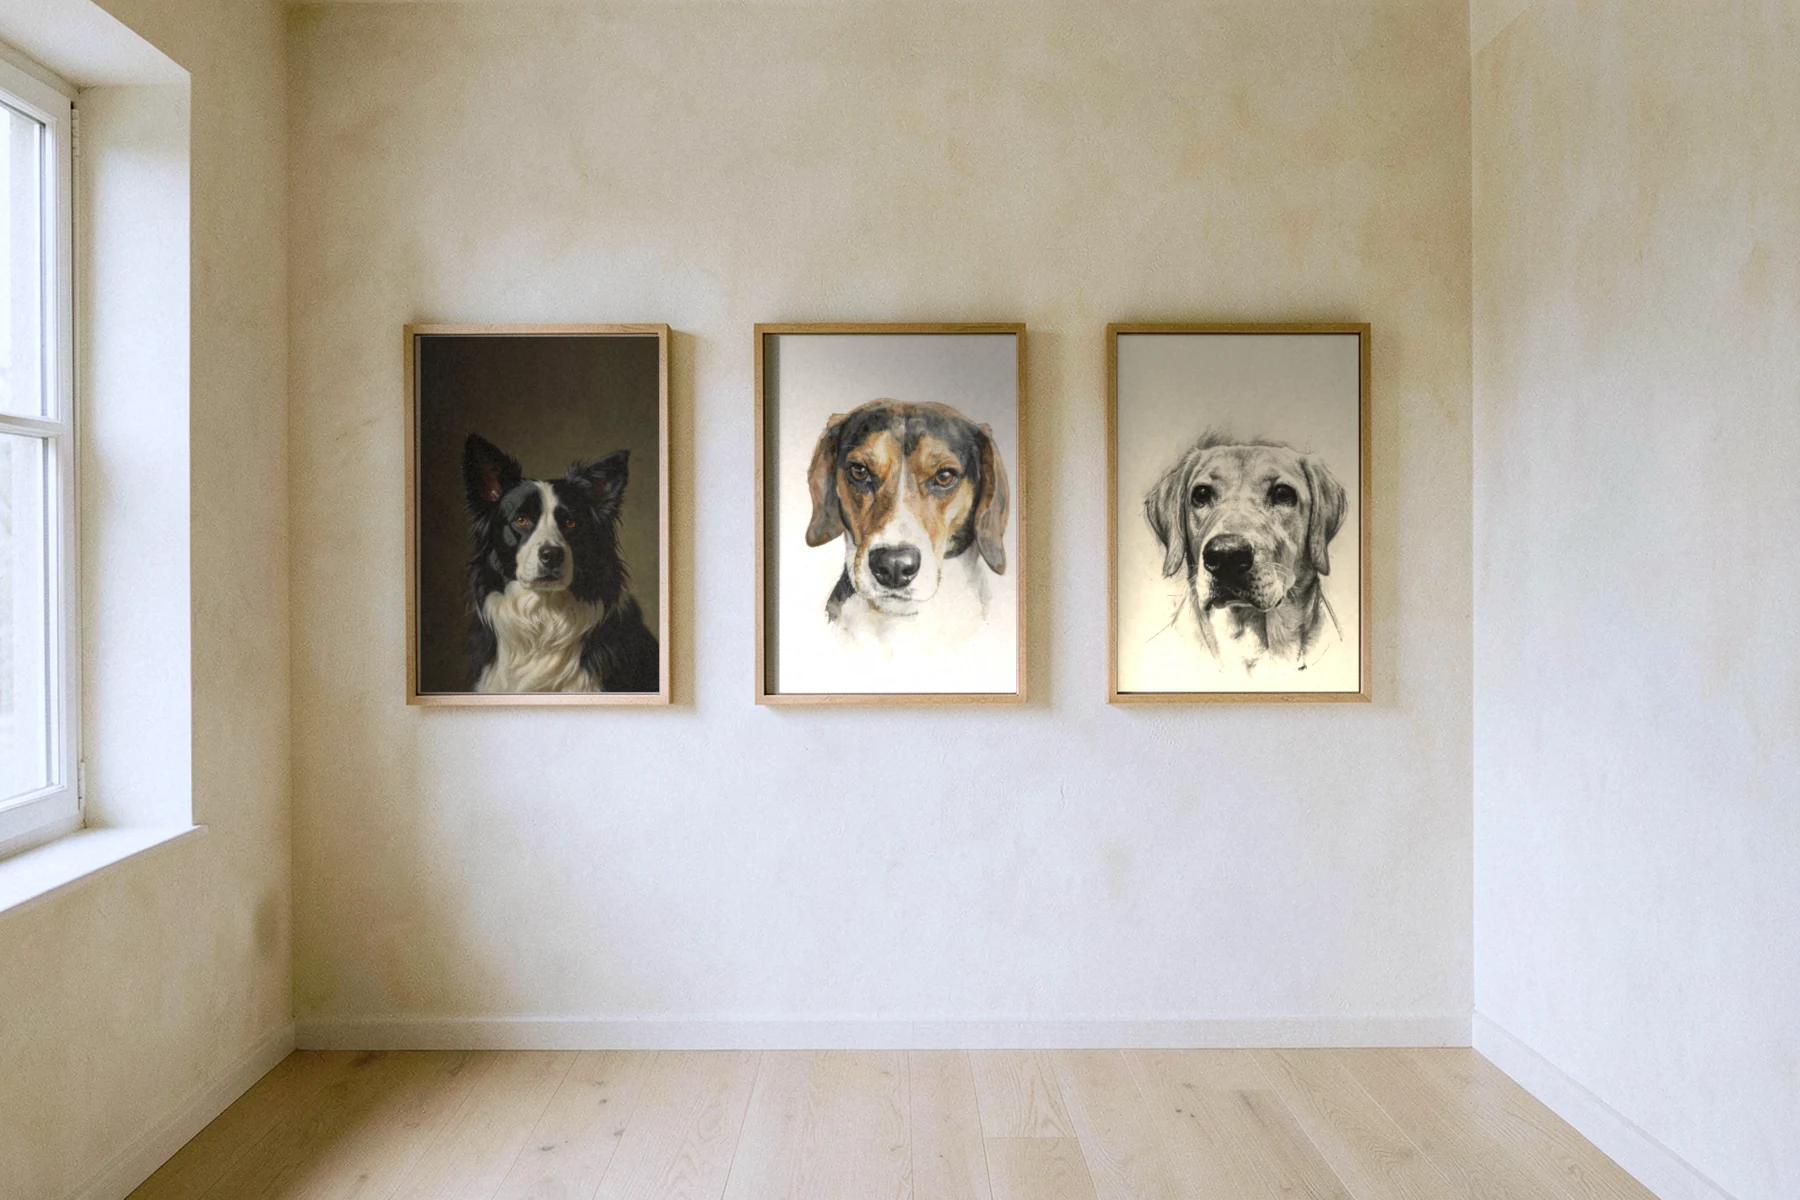
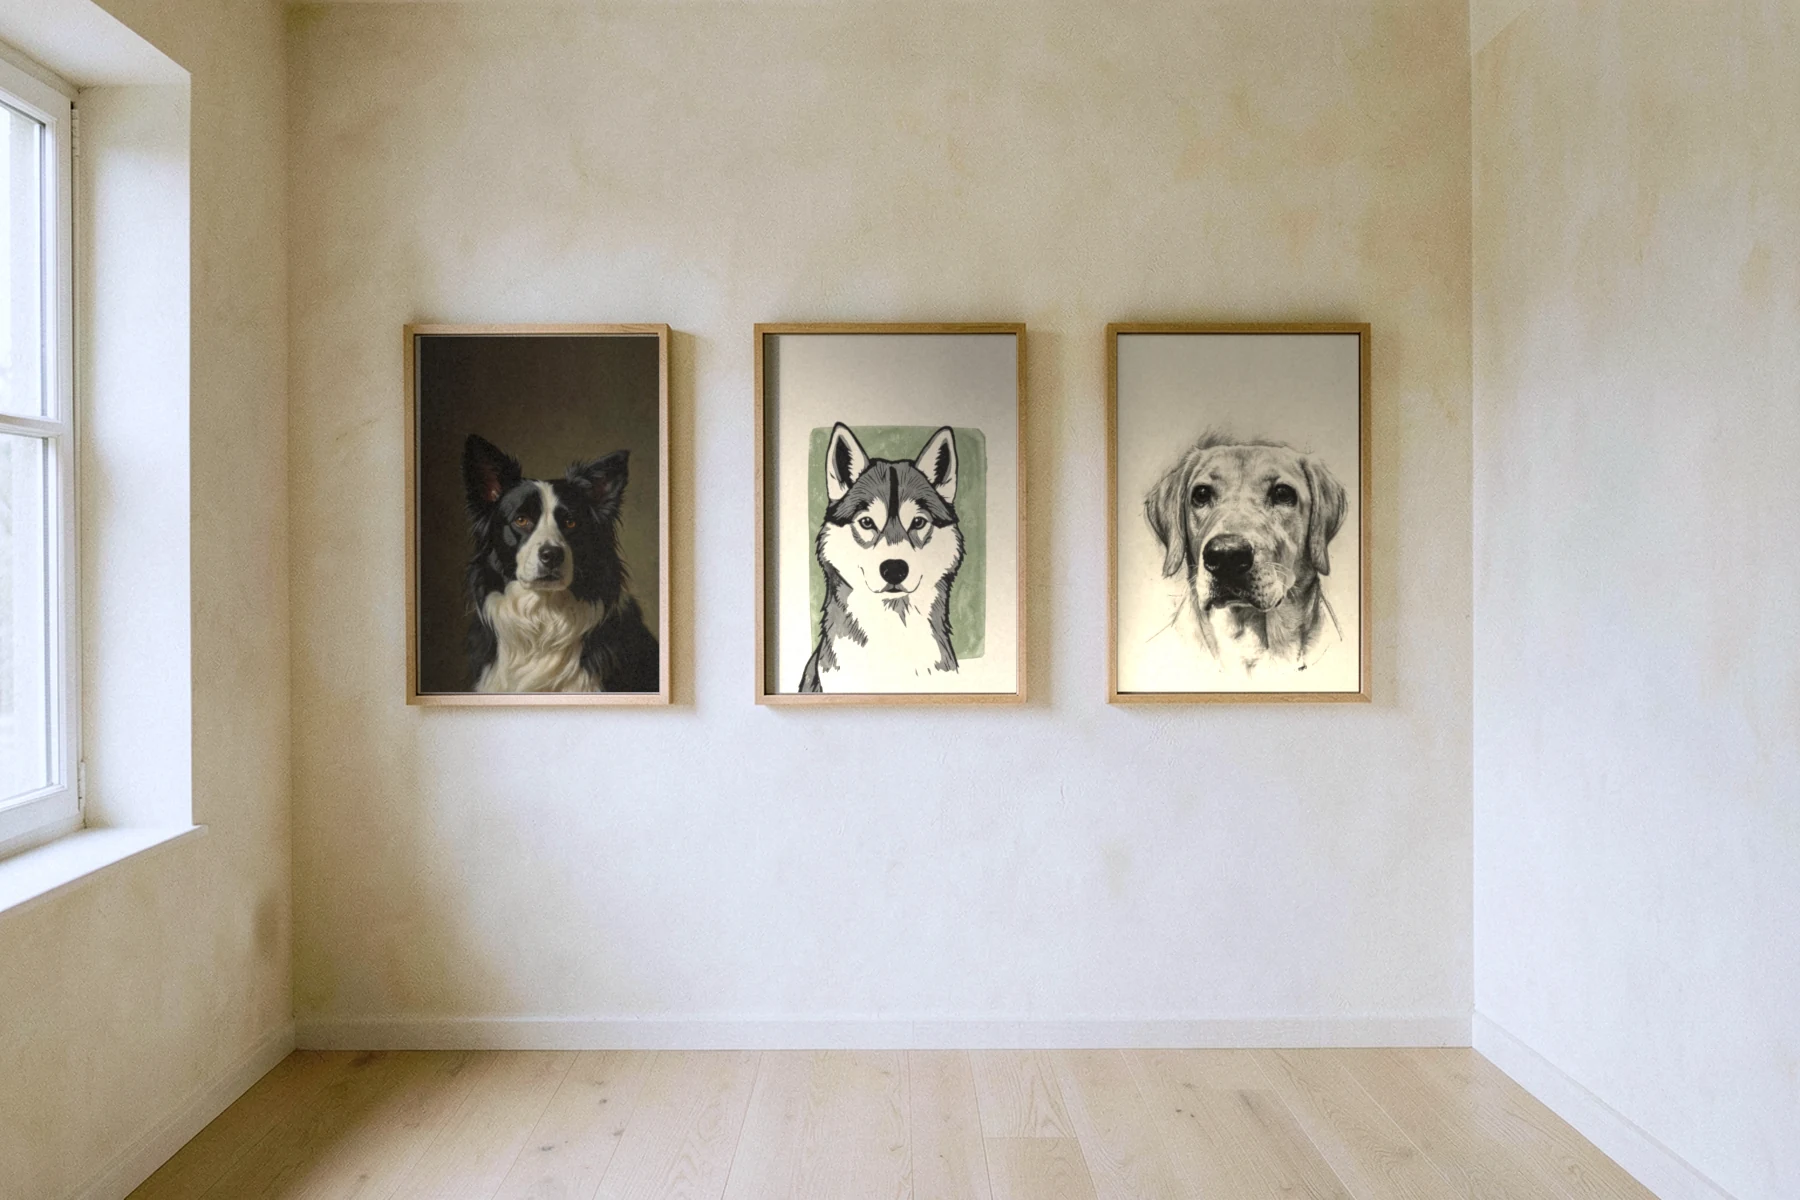
New craft-media samples: Modern Oil, Linocut, Pastel, Ink Wash; gallery wall rehung with Old Master, Linocut and Charcoal
Claude-Session: https://claude.ai/code/session_01Q1G9K9iUNWePoTgYQBX8an

Changed region(s): [[0.4356, 0.3083, 0.56, 0.5858]]

diff --git a/web/public/samples/CREDITS.md b/web/public/samples/CREDITS.md
@@ -5,28 +5,32 @@ customer orders and not customer reviews. Each one is an AI render made from a r
 (listed below), then reviewed by a person at 100% before it was published (likeness, anatomy, no garbled
 text or jewellery, no watermarks).
 
-## How they were made (current set, Oct 18: house-style redesign)
+## How they were made (current set, Nov 10: dog-centred collection)
+
+The collection is ten craft media and nothing else: the dog is the subject, with no costumes, props, scenes or
+novelty. Six pieces are kept from the Oct 18 house-style set (Old Master, Watercolor, Charcoal, Fine Line,
+Botanical, Mid-Century). Four are new (Modern Oil, Linocut, Pastel, Ink Wash). The Royal, Admiral, Space Cadet,
+Pop Art, Storybook and Holiday Cozy samples were deleted.
 
 - **Model:** FLUX.2 [klein] 4B (`black-forest-labs/FLUX.2-klein-4B`), run locally on CPU with Hugging Face
-  `diffusers` (`Flux2KleinPipeline`, bf16). Reference-image editing: the real photo is passed as the
+  `diffusers` (`Flux2KleinPipeline`). Reference-image editing: the real photo is passed as the
   reference image, and the style prompt asks for a portrait of *this exact dog*. 4 steps, guidance 1.0,
-  rendered natively at 1152×1440 (reference photo at 640×800).
+  reference photo at 640×800. The Oct 18 pieces and modern-oil.webp were rendered natively at 1152×1440; the
+  other Nov 10 pieces were rendered at 960×1200 (weights stored in bf16, computed in float32).
   - License: **Apache-2.0** (https://huggingface.co/black-forest-labs/FLUX.2-klein-4B). Commercial use of
     the model and of its outputs is permitted. The bundled VAE is under the same license.
 - **Text encoder:** Qwen3-4B (`Qwen/Qwen3-4B`, as bundled in the FLUX.2-klein-4B repository), **Apache-2.0**.
-- **Prompts:** one shared house style (museum surfaces, natural canine anatomy, one soft light, one restrained
-  palette, no text). The exact prompt used for each style is in `docs/art-direction.md`.
+- **Prompts:** one shared house style (the dog as the only subject, true medium surfaces, natural canine
+  anatomy, one soft light, one restrained palette, no text). The exact prompt used for each style is in
+  `docs/art-direction.md`.
 - **Retouching:**
   - mid-century.webp: the open mouth was re-rendered closed with the same model's inpainting pipeline
     (`Flux2KleinInpaintPipeline`, masked to the muzzle only).
-  - pop-art.webp: a stray dark shape below the jaw (a malformed tongue) was painted out with the plain
-    background ink.
   - charcoal.webp: the reference photo was first scaled down and seated on its own extended backdrop, to leave
     headroom.
 - **Finishing:** up to 1.2% edge trim (removes faint painted canvas edges), centre crop to 4:5, Lanczos resize to
   1200×1500, light unsharp mask. Then a very light surface pass: linen weave for oils, paper tooth for paper media.
-  Tiny isolated specks are removed, and near-white trim on The Royal is warmed to ivory. WebP quality 80–86
-  (Pillow), each file under 400 KB.
+  Tiny isolated specks are removed. WebP quality 80–86 (Pillow), each file under 400 KB.
 
 We never present these as hand-painted or signed. "Made by our AI artist, finished and checked by our team."
 
@@ -38,35 +42,33 @@ anyway. None are Unsplash+ photos. Local copies (4:5 crops) live in `web/scripts
 
 | Sample file(s) | Style | Dog | Source photo | Photographer | Unsplash page |
 |---|---|---|---|---|---|
-| royal.webp | The Royal | Cavalier King Charles Spaniel | cavalier-2.jpg | Tracy Anderson | https://unsplash.com/photos/OktYfwY5ZQI |
-| pair-1-before.webp (photo), pair-1-after.webp | The Royal | Golden Retriever | golden-retriever.jpg | Faber Leonardo | https://unsplash.com/photos/ktujYJX35-E |
-| admiral.webp | The Admiral | Labrador Retriever | labrador-2.jpg | Not identified yet (free Unsplash CDN image) | https://images.unsplash.com/photo-1761797732084-eed42f058516 |
-| pair-3-before.webp (photo), pair-3-after.webp | The Admiral | Beagle | beagle.jpg | Nathanaël Desmeules | https://unsplash.com/photos/527_3nFNAPo |
-| gallery-4.webp | The Admiral | Siberian Husky | husky.jpg | Elin Birgisdottir | https://unsplash.com/photos/cwwwHfTytSI |
 | oil-classic.webp | Old Master | Border Collie | border-collie.jpg | Pauline Loroy | https://unsplash.com/photos/XH8A0bvQ7iE |
-| gallery-1.webp | Old Master | Golden Retriever | golden-retriever.jpg | Faber Leonardo | https://unsplash.com/photos/ktujYJX35-E |
+| pair-1-before.webp (photo), pair-1-after.webp | Old Master | Golden Retriever | golden-retriever.jpg | Faber Leonardo | https://unsplash.com/photos/ktujYJX35-E |
+| modern-oil.webp | Modern Oil | Dachshund | dachshund.jpg | Alexandre Daoust | https://unsplash.com/photos/DoMqElrLS5M |
+| gallery-1.webp | Modern Oil | Cavalier King Charles Spaniel | cavalier-3.jpg | Courtney Mihaka | https://unsplash.com/photos/8rdX9FraXug |
 | watercolor.webp | Watercolor | Beagle (tricolour hound) | beagle-2.jpg | Jabez Rodarte | https://unsplash.com/photos/rxFw2zAaUi0 |
 | pair-2-before.webp (photo), pair-2-after.webp | Watercolor | French Bulldog | french-bulldog.jpg | Eric Tan | https://unsplash.com/photos/p6qtH9kqjt8 |
 | gallery-3.webp | Watercolor | Cavapoo | cavapoo.jpg | Leiada Krözjhen | https://unsplash.com/photos/7lahRWgD2qM |
-| fine-line.webp | Fine Line | French Bulldog | french-bulldog.jpg | Eric Tan | https://unsplash.com/photos/p6qtH9kqjt8 |
-| pop-art.webp | Pop Art | Dachshund | dachshund.jpg | Alexandre Daoust | https://unsplash.com/photos/DoMqElrLS5M |
-| gallery-2.webp | Pop Art | French Bulldog | french-bulldog-sitting.jpg | Eric Tan | https://unsplash.com/photos/WqveMpe3QTA |
-| storybook.webp | Storybook | Poodle / Doodle puppy | doodle-puppy.jpg | Erick Lee Hodge | https://unsplash.com/photos/U8pgck1dgtQ |
-| gallery-5.webp | Storybook | Cavalier King Charles Spaniel | cavalier-3.jpg | Courtney Mihaka | https://unsplash.com/photos/8rdX9FraXug |
-| botanical.webp | Botanical | Cavapoo | cavapoo.jpg | Leiada Krözjhen | https://unsplash.com/photos/7lahRWgD2qM |
-| astronaut.webp | Space Cadet | Siberian Husky | husky.jpg | Elin Birgisdottir | https://unsplash.com/photos/cwwwHfTytSI |
+| pastel.webp | Pastel | Cavalier King Charles Spaniel | cavalier-2.jpg | Tracy Anderson | https://unsplash.com/photos/OktYfwY5ZQI |
+| gallery-4.webp | Pastel | Poodle / Doodle puppy | doodle-puppy.jpg | Erick Lee Hodge | https://unsplash.com/photos/U8pgck1dgtQ |
 | charcoal.webp | Charcoal Study | Labrador Retriever | labrador.jpg | Aniket Salve | https://unsplash.com/photos/IQ3FjY2Gdho |
 | gallery-6.webp | Charcoal Study | Beagle (tricolour hound) | beagle-2.jpg | Jabez Rodarte | https://unsplash.com/photos/rxFw2zAaUi0 |
+| pair-3-before.webp (photo), pair-3-after.webp | Charcoal Study | Beagle | beagle.jpg | Nathanaël Desmeules | https://unsplash.com/photos/527_3nFNAPo |
+| ink-wash.webp | Ink Wash | Border Collie | border-collie-2.jpg | Chung Nguyen | https://unsplash.com/photos/kJlk-jW2nLI |
+| gallery-5.webp | Ink Wash | Labrador Retriever | labrador.jpg | Aniket Salve | https://unsplash.com/photos/IQ3FjY2Gdho |
+| fine-line.webp | Fine Line | French Bulldog | french-bulldog.jpg | Eric Tan | https://unsplash.com/photos/p6qtH9kqjt8 |
+| linocut.webp | Linocut | Siberian Husky | husky.jpg | Elin Birgisdottir | https://unsplash.com/photos/cwwwHfTytSI |
+| gallery-2.webp | Linocut | French Bulldog | french-bulldog-sitting.jpg | Eric Tan | https://unsplash.com/photos/WqveMpe3QTA |
+| botanical.webp | Botanical | Cavapoo | cavapoo.jpg | Leiada Krözjhen | https://unsplash.com/photos/7lahRWgD2qM |
 | mid-century.webp | Mid-Century | Pembroke Welsh Corgi | corgi.jpg | Ivana La | https://unsplash.com/photos/tycZhR54Ddk |
-| holiday.webp | Holiday Cozy | Cavalier King Charles Spaniel | cavalier.jpg | Izabelly Marques | https://unsplash.com/photos/-d-q58LA1ds |
 
-Changes from the Oct 14 set: holiday.webp now uses cavalier.jpg (was golden-retriever-2.jpg). gallery-1.webp
-now uses golden-retriever.jpg (was golden-retriever-2.jpg), so it is the same dog as pair-1 and as the dog in
-`campaign/dog-and-portrait.webp`. The style and dog labels in `web/src/lib/samples.ts` are unchanged.
+Changes from the Oct 18 set: pair-1-after.webp is now the Old Master golden retriever (the file that used to be
+gallery-1.webp); it is also the hero portrait in every campaign scene. pair-3-after.webp is a charcoal study
+made from the same photo as pair-3-before.webp. gallery-1, 2, 4 and 5 are new pieces in the four new media.
 
 ## Site-wide images made from these samples
 
 - `web/public/campaign/`: product mockups that composite these exact files into generated interiors (see
   `web/public/campaign/CREDITS.md`).
-- `web/public/og-default.jpg` (1200×630): the current royal.webp on a white page with the "PUP PRINTS" wordmark and the line "Your dog, immortalized." set in Bodoni Moda, with a Hanken Grotesk label (both SIL Open Font License 1.1), composed with Pillow (regenerated Oct 18).
+- `web/public/og-default.jpg` (1200×630): the Old Master golden retriever (pair-1-after.webp) on a white page with the "PUP PRINTS" wordmark and the line "Your dog, immortalized." set in Bodoni Moda, with a Hanken Grotesk label (both SIL Open Font License 1.1), composed with Pillow (regenerated Nov 10).
 - `web/public/logo.png`: brand mark only, no photo.

diff --git a/web/public/campaign/CREDITS.md b/web/public/campaign/CREDITS.md
@@ -5,8 +5,12 @@ ornament blank are AI-generated scenes. The artwork shown in each one is our act
 `web/public/samples/`), placed into the scene by code. The product shown is real and exact; the room is not a real
 place, and no customer or real home is shown. No people, logos, brands or text appear in any scene.
 
-## How they were made (Oct 18)
+## How they were made (scenes Oct 18; artwork recomposited Nov 10)
 
+- **Nov 10 change:** the rooms are unchanged. Only the artwork was swapped, by rerunning the same compositing
+  code: the one hero portrait is now the Old Master golden retriever (`samples/pair-1-after.webp`), used
+  consistently in every single-portrait scene, and the gallery wall shows three pieces from the dog-centred
+  collection. No costume portraits remain.
 - **Scene model:** FLUX.2 [klein] 4B (`black-forest-labs/FLUX.2-klein-4B`), run locally on CPU with Hugging Face
   `diffusers` (`Flux2KleinPipeline`, bf16), text-to-image, 4 steps, guidance 1.0. The model and its outputs are
   licensed **Apache-2.0** (https://huggingface.co/black-forest-labs/FLUX.2-klein-4B), and commercial use is
@@ -33,16 +37,16 @@ place, and no customer or real home is shown. No people, logos, brands or text a
 
 | File | Size | Scene | Artwork shown (exact file) | Artwork's source photo |
 |---|---|---|---|---|
-| hero-wide.webp | 2400×1350 | Limewashed wall, oak console, ceramic vase with a branch, raking morning light; oak frame, acrylic, no mat | samples/royal.webp | cavalier-2.jpg (Tracy Anderson, Unsplash) |
-| hero-tall.webp | 1200×1500 | Same idea composed for phones: large oak frame (about 50% of the width) in the upper middle, calm plaster below | samples/royal.webp | cavalier-2.jpg |
-| format-canvas.webp | 1200×1500 | 16×20 gallery-wrap canvas (rendered) above a linen sofa | samples/royal.webp | cavalier-2.jpg |
-| format-framed.webp | 1200×1500 | Natural oak frame, no mat, leaning on a travertine mantel with an olive sprig | samples/royal.webp | cavalier-2.jpg |
-| format-print.webp | 1200×1500 | Unframed matte fine-art print, overhead on linen and oak with tissue and a pencil | samples/royal.webp | cavalier-2.jpg |
-| format-digital.webp | 1200×1500 | Phone on travertine, screen showing the portrait | samples/royal.webp | cavalier-2.jpg |
-| gift.webp | 1200×1500 | Black-framed portrait half-unwrapped from tissue in a plain ivory box with a cotton ribbon | samples/royal.webp | cavalier-2.jpg |
-| dog-and-portrait.webp | 1800×1200 | A golden retriever on a cream linen sofa beneath its own portrait (oak frame). The scene dog was generated as a reference edit of the same photo the portrait was made from | samples/gallery-1.webp (Old Master) | golden-retriever.jpg (Faber Leonardo, Unsplash): both the portrait and the scene dog |
+| hero-wide.webp | 2400×1350 | Limewashed wall, oak console, ceramic vase with a branch, raking morning light; oak frame, acrylic, no mat | samples/pair-1-after.webp (Old Master) | golden-retriever.jpg (Faber Leonardo, Unsplash) |
+| hero-tall.webp | 1200×1500 | Same idea composed for phones: large oak frame (about 50% of the width, a 24×36 opening; the portrait's plain ground is extended above the dog instead of cropping it) in the upper middle, calm plaster below | samples/pair-1-after.webp (Old Master) | golden-retriever.jpg |
+| format-canvas.webp | 1200×1500 | 16×20 gallery-wrap canvas (rendered) above a linen sofa | samples/pair-1-after.webp (Old Master) | golden-retriever.jpg |
+| format-framed.webp | 1200×1500 | Natural oak frame, no mat, leaning on a travertine mantel with an olive sprig | samples/pair-1-after.webp (Old Master) | golden-retriever.jpg |
+| format-print.webp | 1200×1500 | Unframed matte fine-art print, overhead on linen and oak with tissue and a pencil | samples/pair-1-after.webp (Old Master) | golden-retriever.jpg |
+| format-digital.webp | 1200×1500 | Phone on travertine, screen showing the portrait | samples/pair-1-after.webp (Old Master) | golden-retriever.jpg |
+| gift.webp | 1200×1500 | Black-framed portrait half-unwrapped from tissue in a plain ivory box with a cotton ribbon | samples/pair-1-after.webp (Old Master) | golden-retriever.jpg |
+| dog-and-portrait.webp | 1800×1200 | A golden retriever on a cream linen sofa beneath its own portrait (oak frame). The scene dog was generated as a reference edit of the same photo the portrait was made from | samples/pair-1-after.webp (Old Master; composited Oct 18, unchanged) | golden-retriever.jpg (Faber Leonardo, Unsplash): both the portrait and the scene dog |
 | gallery-wall.webp | 1800×1200 | Pale hallway, three oak frames (no mat) in a row | samples/oil-classic.webp, samples/watercolor.webp, samples/charcoal.webp | border-collie.jpg (Pauline Loroy), beagle-2.jpg (Jabez Rodarte), labrador.jpg (Aniket Salve) |
-| heirloom.webp | 1200×1500 | Matching ceramic ornament on crumpled linen with an evergreen sprig | samples/royal.webp (circular crop) | cavalier-2.jpg |
+| heirloom.webp | 1200×1500 | Matching ceramic ornament on crumpled linen with an evergreen sprig | samples/pair-1-after.webp (circular crop) | golden-retriever.jpg |
 
 All source photos are from Unsplash and used under the [Unsplash License](https://unsplash.com/license) (free
 commercial use and modification, no attribution required; we credit anyway). See
